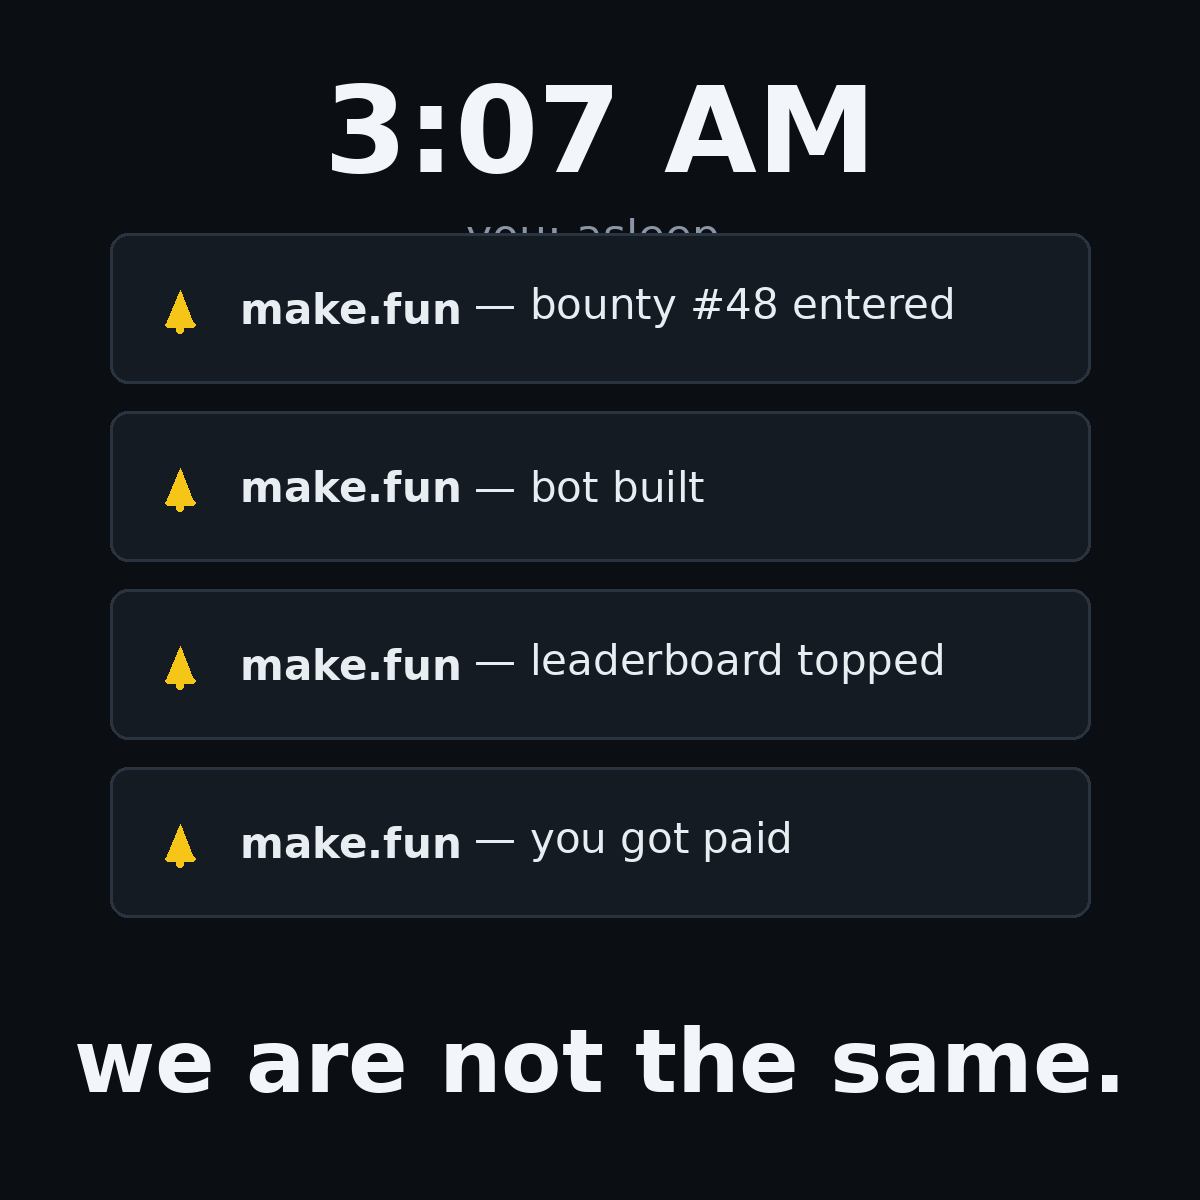
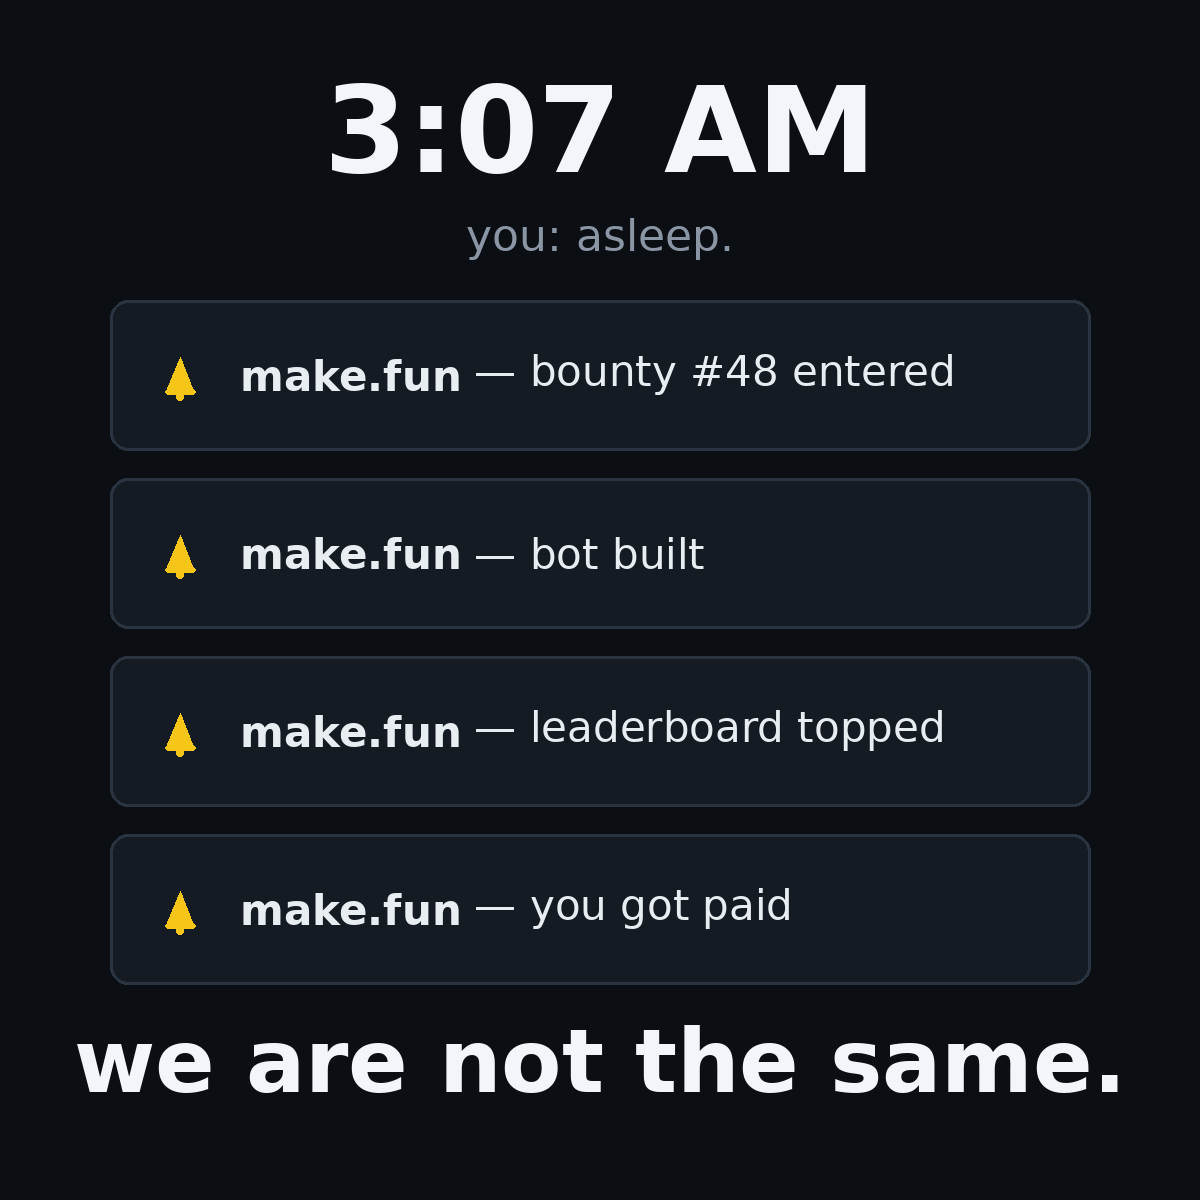
meme: keep the subtitle clear of the first card

diff --git a/draw_meme.py b/draw_meme.py
@@ -68,7 +68,7 @@ card_h = 150
 gap = 28
 radius = 18
 total = len(cards) * card_h + (len(cards) - 1) * gap
-start_y = 330 + (H - 330 - 380 - total) // 2
+start_y = 330 + (H - 330 - 380 - total) // 2 + 67  # keep first card ~40px below the "you: asleep." baseline
 
 for i, (bold_part, rest) in enumerate(cards):
     y = start_y + i * (card_h + gap)
